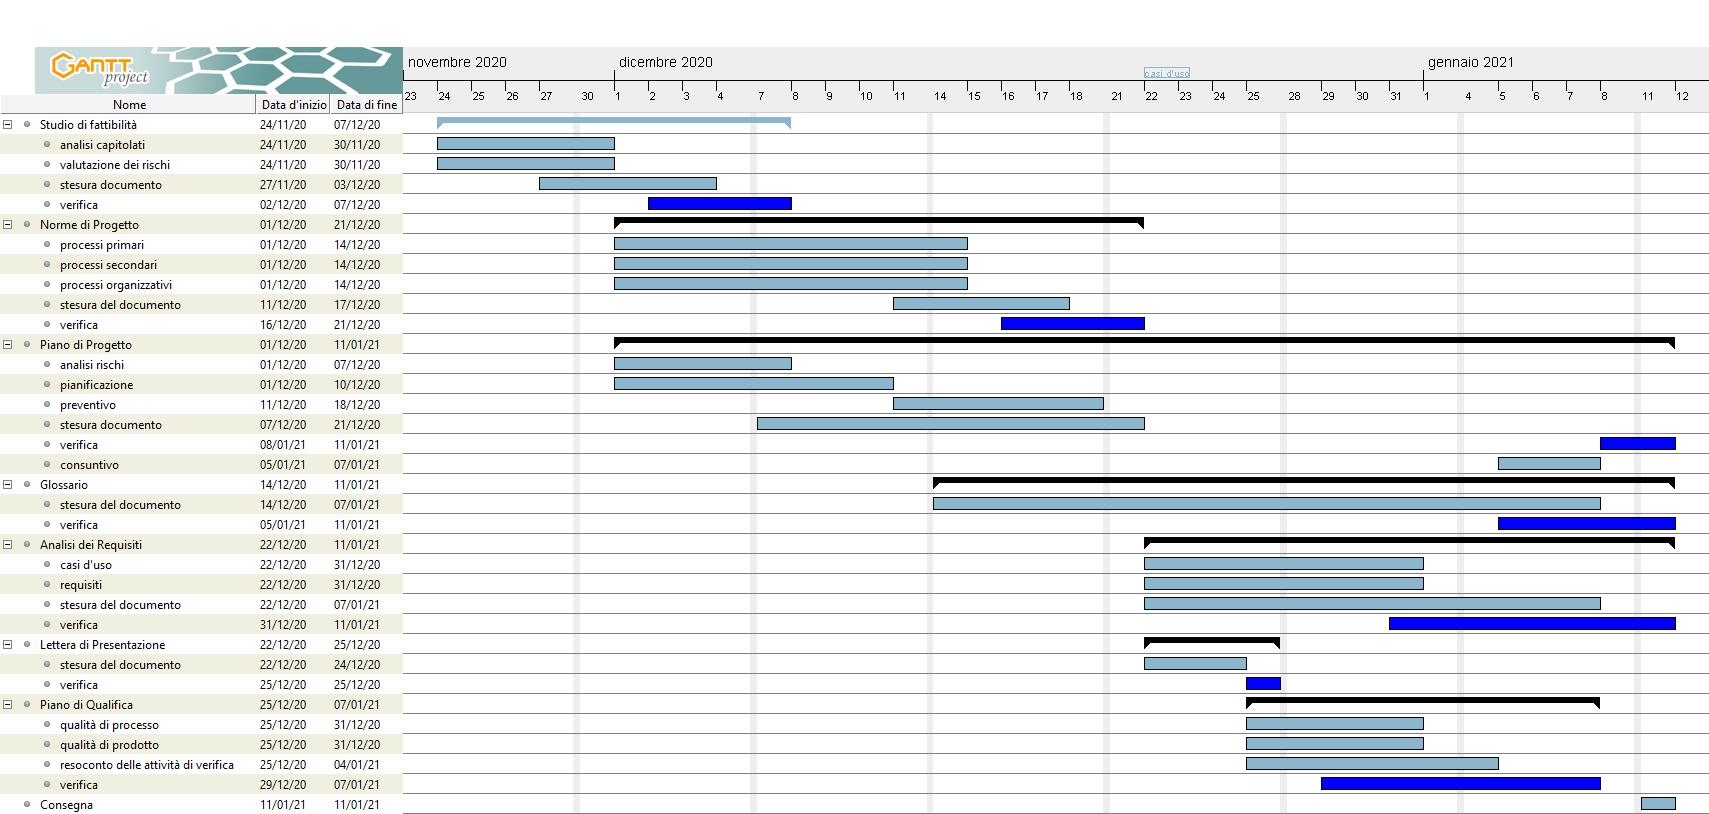
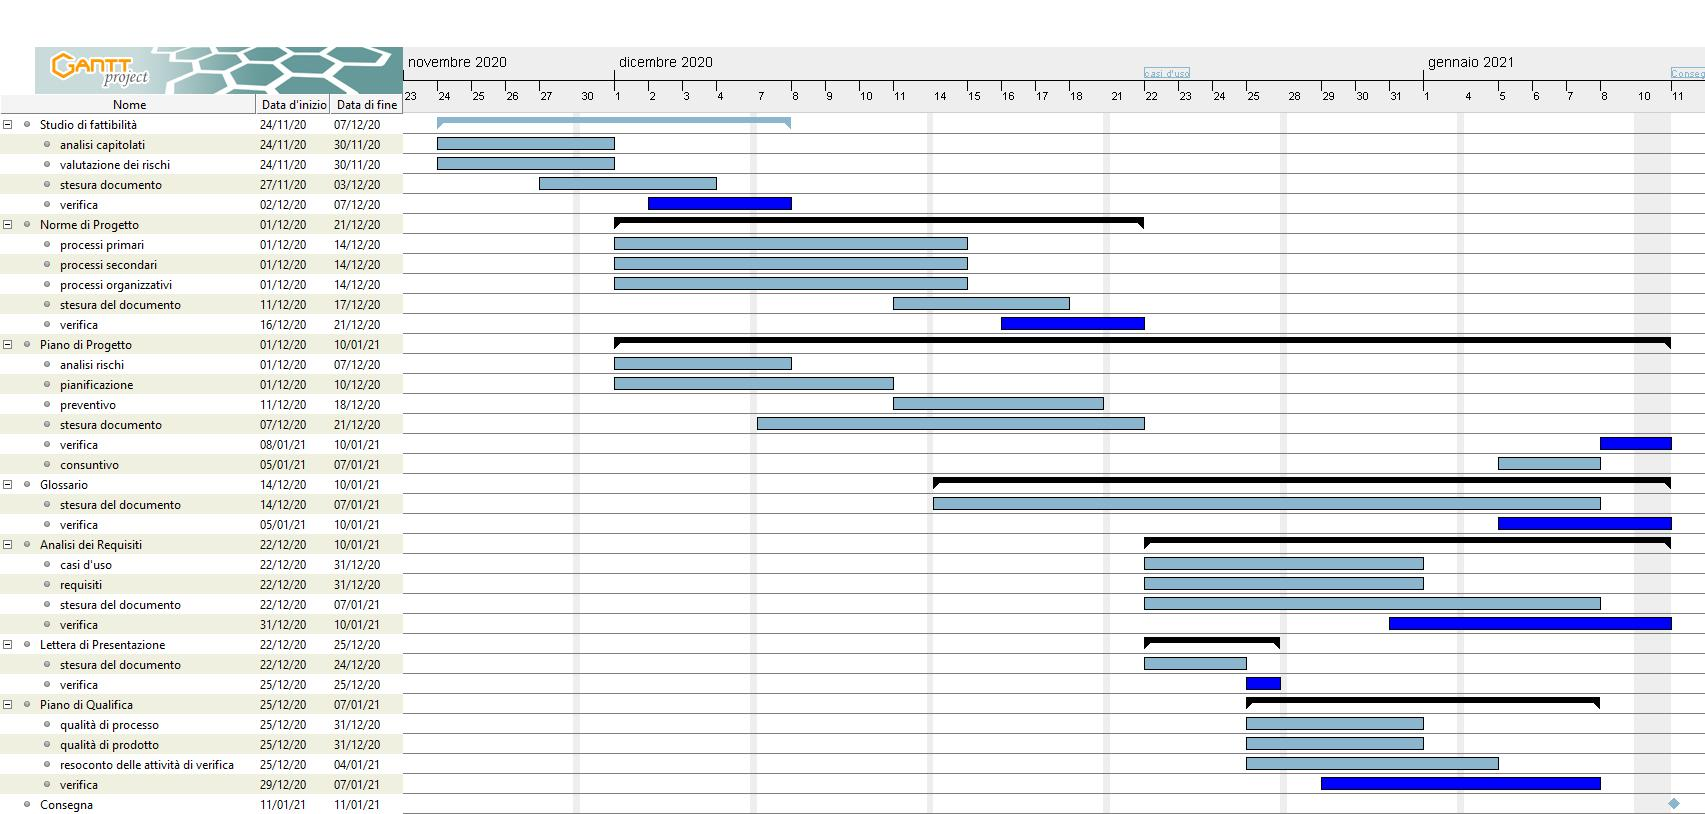
aggiunti diagrammi di Gantt

diff --git a/Esterni/PianoProgetto/components/Pianificazione.tex b/Esterni/PianoProgetto/components/Pianificazione.tex
@@ -134,6 +134,12 @@ Le attività da svolgere durante il periodo sono:
 	\item \textbf{Technology Baseline:} viene fatta un'analisi ad alto livello del software e viene redatto l'Allegato Tecnico dove vengono individuati i design pattern che verranno addottati per lo sviluppo. Infine viene codificato il \textit{Proof of Concept}, il quale viene presentato o condiviso al committente e proponente in una data da definirsi;
 \end{itemize}
 \subsubsection{Diagramma di Gantt: progettazione architetturale}
+\begin{figure}[H]
+    \centering
+    \includegraphics[scale = 0.25]{components/img/progettazione_architetturale.jpg}
+    \caption{Diagramma di Gantt della fase di Progettazione Architetturale}
+    \label{fig:Diagramma}
+\end{figure}
 
 \newpage
 \subsection{Progettazione di dettaglio e codifica}
@@ -162,10 +168,16 @@ Le attività che vengono svolte sono:
 	\item \textbf{Manuale Utente:} viene redatto un documento che descrive tutte le istruzioni d'uso per l'utente.
 \end{itemize}
 \subsubsection{Diagramma di Gantt: progettazione di dettaglio e codifica}
+\begin{figure}[H]
+    \centering
+    \includegraphics[scale = 0.25]{components/img/progettazione_dettaglio_codifica.jpg}
+    \caption{Diagramma di Gantt della fase di Progettazione di Dettaglio e Codifica}
+    \label{fig:Diagramma}
+\end{figure}
 
 \newpage
 \subsection{Validazione e collaudo}
-Questo periodo ha inizio il 2021-03-10 e si conclude il 2021-05-10.
+Questo periodo ha inizio il 2021-04-10 e si conclude il 2021-05-10.
 Le precondizioni sono:
 \begin{itemize}
 	\item superamento del colloquio per la Product Baseline;
@@ -187,3 +199,9 @@ Le attività che vengono svolte sono:
 	\item \textbf{Manuale Sviluppatore:} viene redatto il \textit{Manuale Sviluppatore} atto a fornire tutte le informazione necessarie al mantenimento, manutenzione e ampliamento del prodotto;
 \end{itemize}
 \subsubsection{Diagramma di Gantt: validazione e collaudo}
+\begin{figure}[H]
+    \centering
+    \includegraphics[scale = 0.25]{components/img/validazione_collaudo.jpg}
+    \caption{Diagramma di Gantt della fase di Progettazione di Validazione e Collaudo}
+    \label{fig:Diagramma}
+\end{figure}
